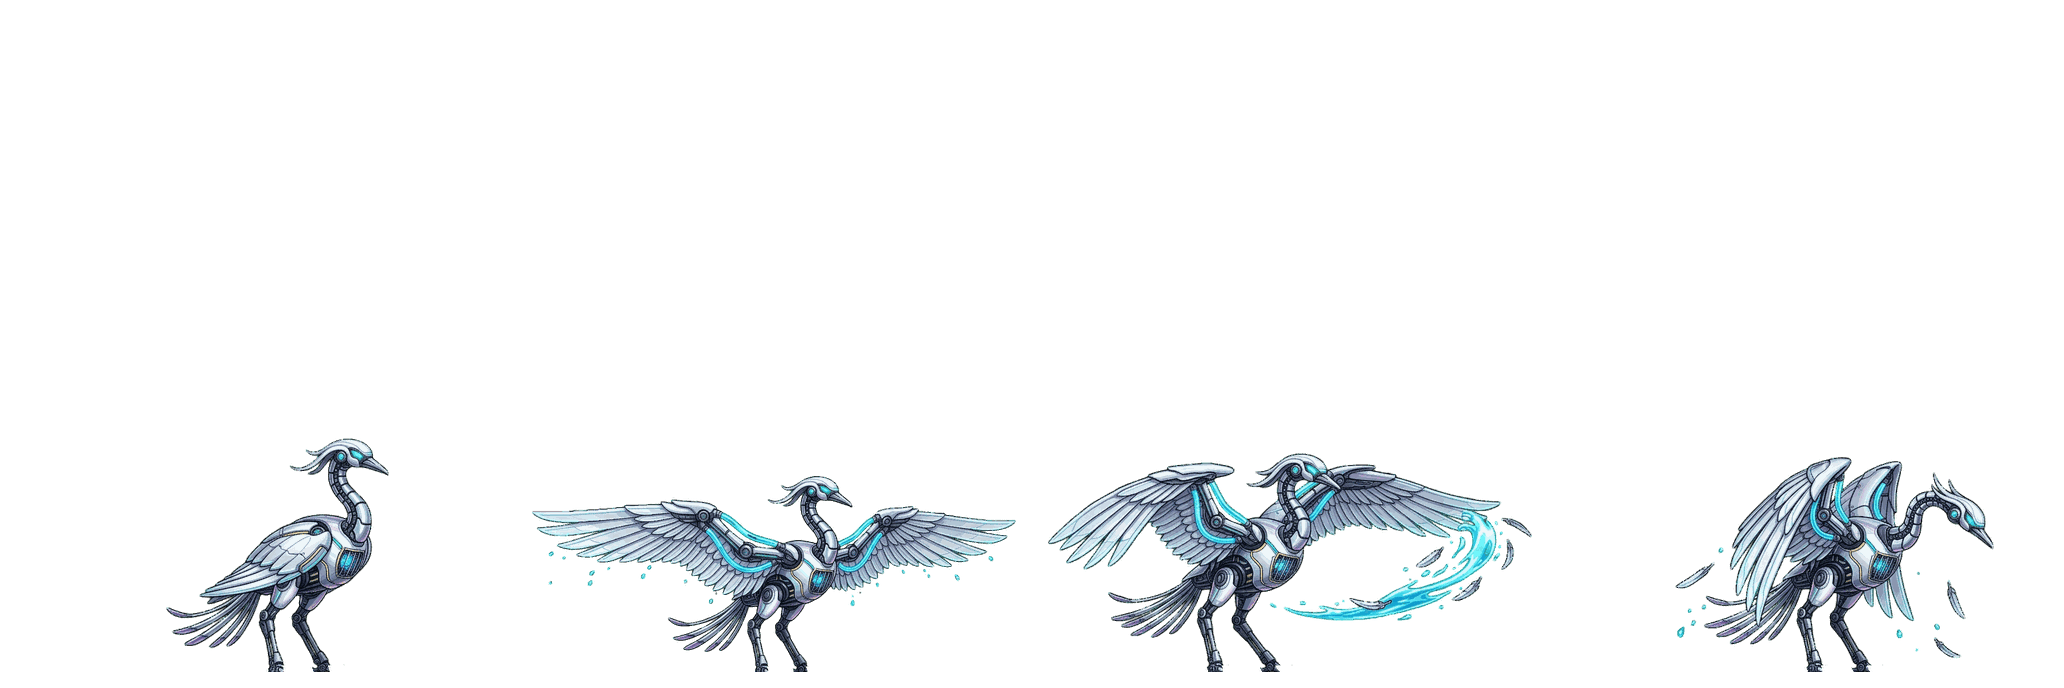
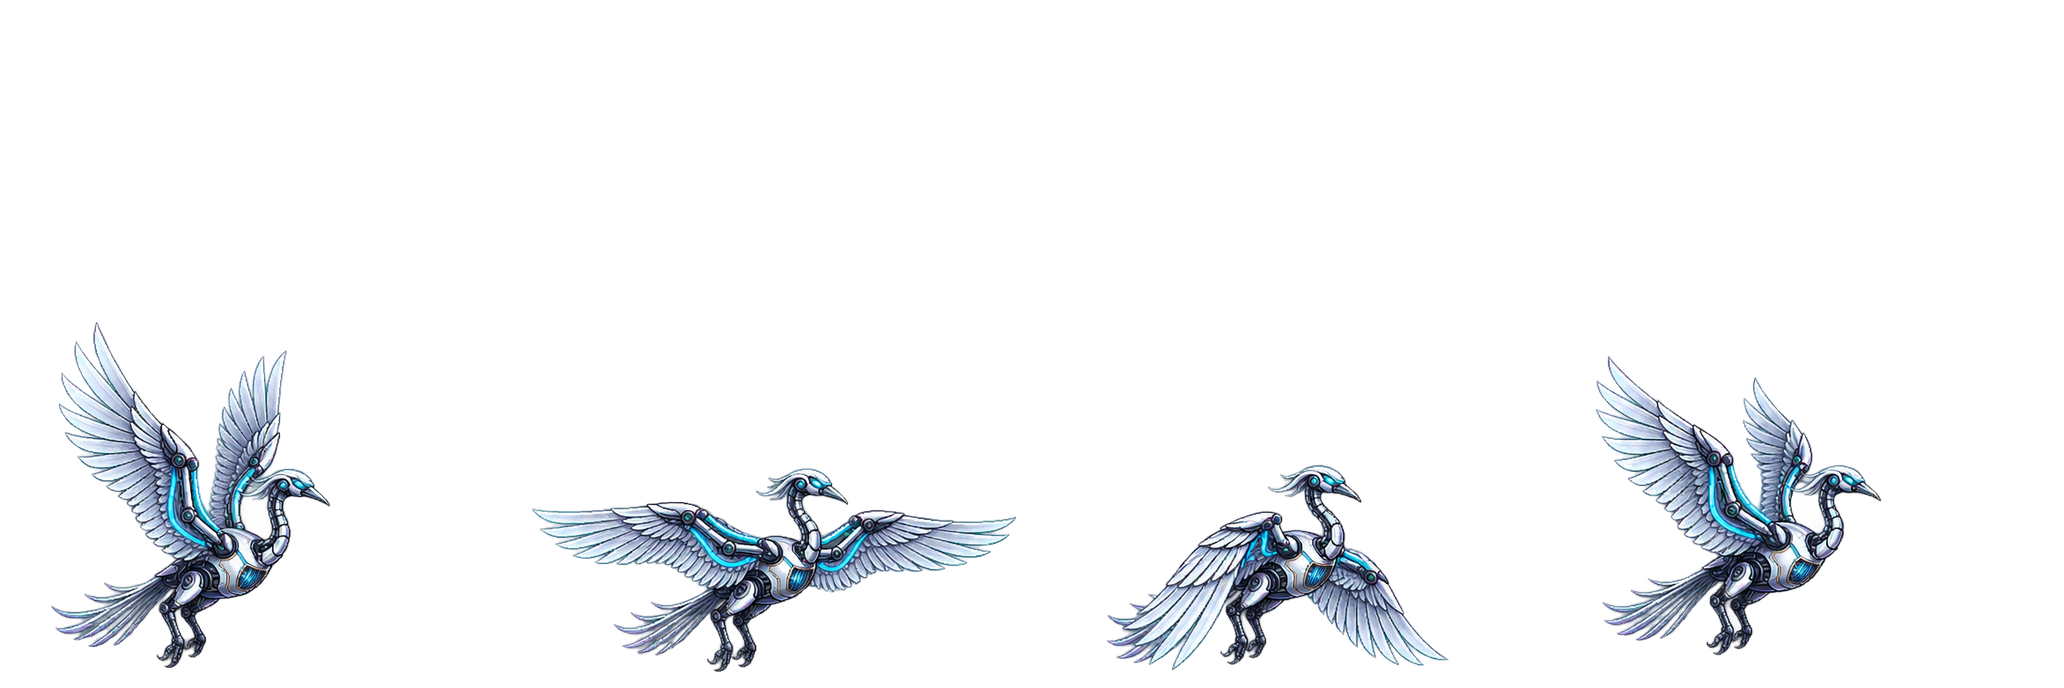
Round 302: the Sky Isles bosses move (#82)
The owner's eight-frame animations for the Stormbell Warden (walk), the
Featherfall Matriarch and the Zenith Roc (flights): frames 1, 3, 5 and 7 cut
with one shared window each, at .8s. SPRITE_VERSION 302.

Claude-Session: https://claude.ai/code/session_01XB2RMCaJ1aVVtBjSNk3FhS

Changed region(s): [[0.2481, 0.641, 0.7442, 0.9767], [0.031, 0.4884, 0.186, 0.9767], [0.7752, 0.5189, 0.9612, 0.9767]]

diff --git a/assets/tile-worlds.js b/assets/tile-worlds.js
@@ -25,9 +25,9 @@ Object.assign(WILDLIFE_ART, {
   skyWispArt:   { name: 'Rain Drone', sheet: 'sky/rain-drone', cycle: '.8s' }, // Round 222: replaces the Cloud Wisp; Round 299: the owner's eight-frame hover
   skyHarpyArt:  { name: 'Gale Harpy', sheet: 'sky/gale-harpy', cycle: '.8s' }, // Round 300: the owner's eight-frame flight
   skyRamArt:    { name: 'Thunderhorn Ram', sheet: 'sky/thunderhorn-ram', cycle: '.8s' }, // Round 301: the owner's eight-frame walk
-  stormbellArt: { name: 'The Stormbell Warden', sheet: 'sky/stormbell-warden', cycle: '1.4s' },
-  matriarchArt: { name: 'The Featherfall Matriarch', sheet: 'sky/featherfall-matriarch', cycle: '1.4s' },
-  zenithRocArt: { name: 'The Zenith Roc', sheet: 'sky/zenith-roc', cycle: '1.2s', big: true }
+  stormbellArt: { name: 'The Stormbell Warden', sheet: 'sky/stormbell-warden', cycle: '.8s' }, // Round 302: the owner's eight-frame walk
+  matriarchArt: { name: 'The Featherfall Matriarch', sheet: 'sky/featherfall-matriarch', cycle: '.8s' }, // Round 302: the owner's eight-frame flight
+  zenithRocArt: { name: 'The Zenith Roc', sheet: 'sky/zenith-roc', cycle: '.8s', big: true }
 });
 const SKY_ENEMIES = {
   skyDrake:   { name: 'Sunfeather Drake', icon: '☀', hp: 44, attack: 9, element: 'fire', art: 'skyDrakeArt', tint: 'none' },

diff --git a/index.html b/index.html
@@ -553,7 +553,7 @@ if(localStorage.getItem(SAVE_KEY))$('resumeBtn').classList.remove('hidden');
 addEventListener('resize',()=>{fitWorld();fitMap();renderTalentConnectors()});fitWorld();
 requestAnimationFrame(loop);
 </script>
-<script src="assets/elaris-wildlife.js?v=round301"></script>
+<script src="assets/elaris-wildlife.js?v=round302"></script>
 <script src="assets/solaris-data.js?v=round232"></script>
 <script src="assets/expansion.js?v=round291"></script>
 <script src="assets/encounter-depth.js?v=round280"></script>
@@ -576,7 +576,7 @@ requestAnimationFrame(loop);
 <script src="assets/wilds-data.js?v=round232"></script>
 <script src="assets/vespera-data.js?v=round232"></script>
 <script src="assets/chronospire-data.js?v=round232"></script>
-<script src="assets/tile-worlds.js?v=round301"></script>
+<script src="assets/tile-worlds.js?v=round302"></script>
 <script src="assets/world-cards.js?v=round210"></script>
 <script src="assets/world-mechanics.js?v=round278"></script>
 <script src="assets/stagger.js?v=round189"></script>

diff --git a/assets/elaris-wildlife.js b/assets/elaris-wildlife.js
@@ -45,7 +45,7 @@ const cityMonsterArt=monsterArt;
 // Round 196: a sheet name with a folder ('sky/zenith-roc') is read from assets/monsters/<folder>/;
 // big:true draws it in the larger boss box.
 // Round 200: bump SPRITE_VERSION when sheets are re-cut, so browsers fetch the new images.
-const SPRITE_VERSION='301';
+const SPRITE_VERSION='302';
 function wildlifeSheetUrl(sheet){return 'assets/monsters/'+(sheet.includes('/')?sheet:'elaris/'+sheet)+'.png?v='+SPRITE_VERSION}
 monsterArt=function(id){const animal=ELARIS_WILDLIFE[id]||WILDLIFE_ART[id];if(!animal)return cityMonsterArt(id);return '<span class="monster-sprite wildlife-sprite'+(animal.big?' bloom-tyrant':'')+'" role="img" aria-label="'+animal.name+'" style="background-image:url('+wildlifeSheetUrl(animal.sheet)+');--wildlife-cycle:'+animal.cycle+'"></span>'};
 // Round 249: a boss node's sprite box was square (142px, sized for Neon Aftermath's boss pictures), which

diff --git a/CHANGES.md b/CHANGES.md
@@ -3496,6 +3496,23 @@ Playtest of Neon Aftermath's three relics (Moon Lens 5,4; Ember Sigil 5,7; Briar
 - Talent descriptions list the per-rank values. Tests updated: round76, chronospire,
   talent-matrix, card-variety, plating-armor.
 
+## Round 302: the Sky Isles bosses move
+
+The owner sent eight-frame animations for the Sky Isles' two mini-bosses and its final boss. Each is cut like Rounds
+299–301: frames 1, 3, 5 and 7, one shared window sized to the widest pose, then padded. The eight-frame strips are kept
+in `assets/monsters/sky/src/`.
+
+| Boss | Animation | Source | Cycle |
+|---|---|---|---|
+| The Stormbell Warden (`stormbellWarden`) | walks: hammer held low, folded rear panels, a gently swinging chest bell | `stormbell-warden-walk8.png` | 1.4s → .8s |
+| The Featherfall Matriarch (`featherMatriarch`) | flies: articulated wingbeats, tucked talons, trailing tailfeathers | `featherfall-matriarch-flight8.png` | 1.4s → .8s |
+| The Zenith Roc (`zenithRoc`) | flies: wingbeats around a steady sun core | `zenith-roc-flight8.png` (832px frames) | 1.2s → .8s |
+
+The new cycles match the owner's 800ms. The Zenith Roc keeps its `big` size.
+
+`SPRITE_VERSION` 302. New `tests/sky-bosses-anim.test.cjs`. All three were checked in Chromium on the map and in
+battle.
+
 ## Round 301: the Thunderhorn Ram walks
 
 - The owner sent an eight-frame walk for the Sky Isles' Thunderhorn Ram (`skyRam`), a mechanical ram with articulated

diff --git a/CLAUDE.md b/CLAUDE.md
@@ -4,7 +4,7 @@ Aethercede is a browser card-battler/exploration game in vanilla JS with no
 build step. Open `index.html` directly. `compendium.html` is the card
 gallery; `arena.html` is a standalone prototype and is left untouched.
 
-**Read `CHANGES.md` first.** Every round of work (Round 1 to Round 301) is
+**Read `CHANGES.md` first.** Every round of work (Round 1 to Round 302) is
 logged there with its reasoning. Add a new `## Round N:` entry for each
 change set.
 
